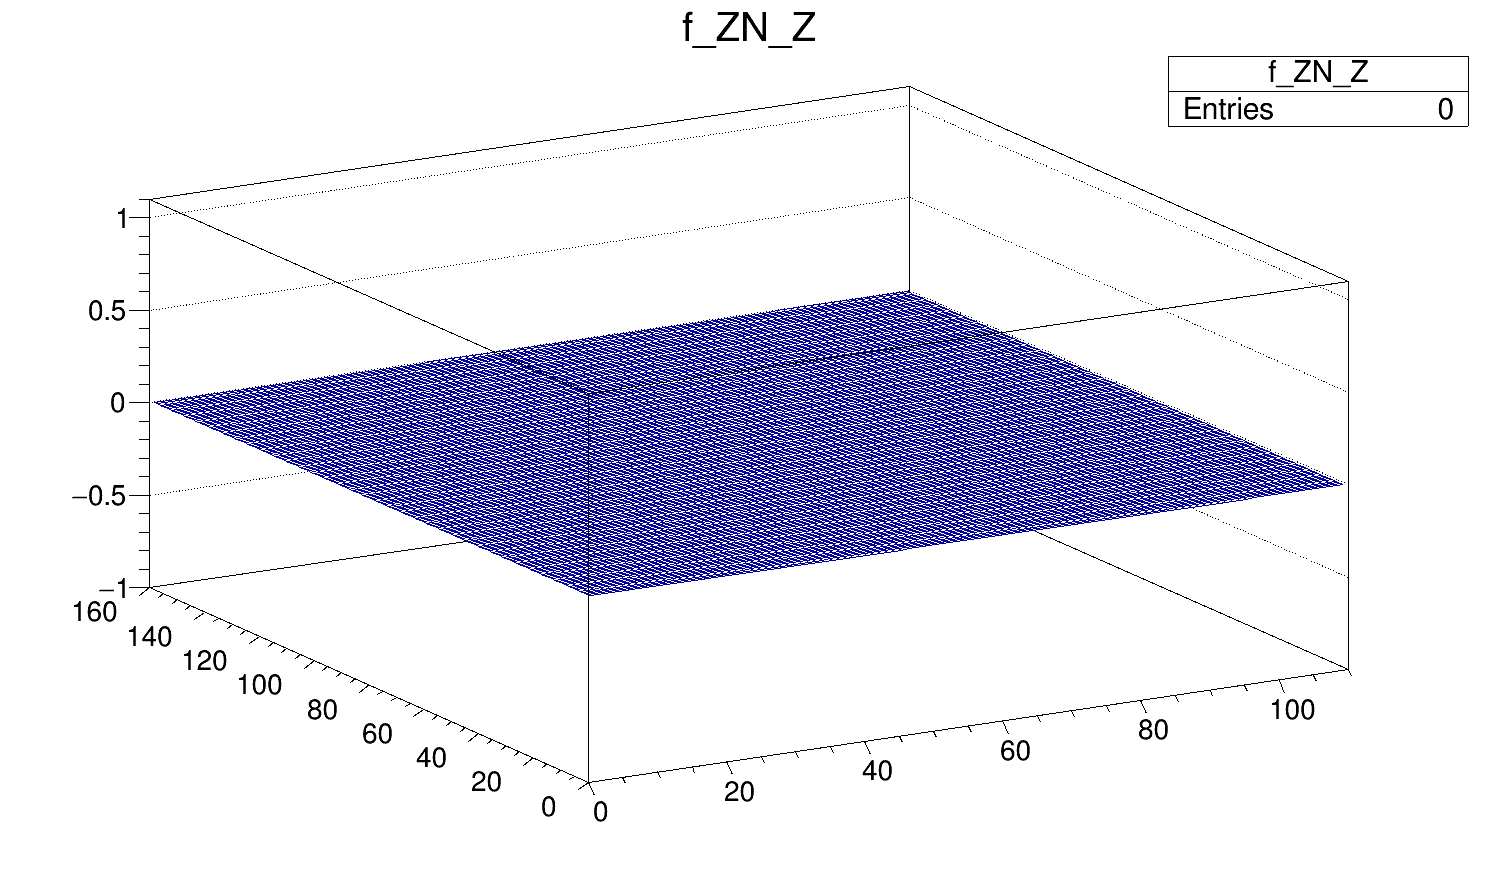
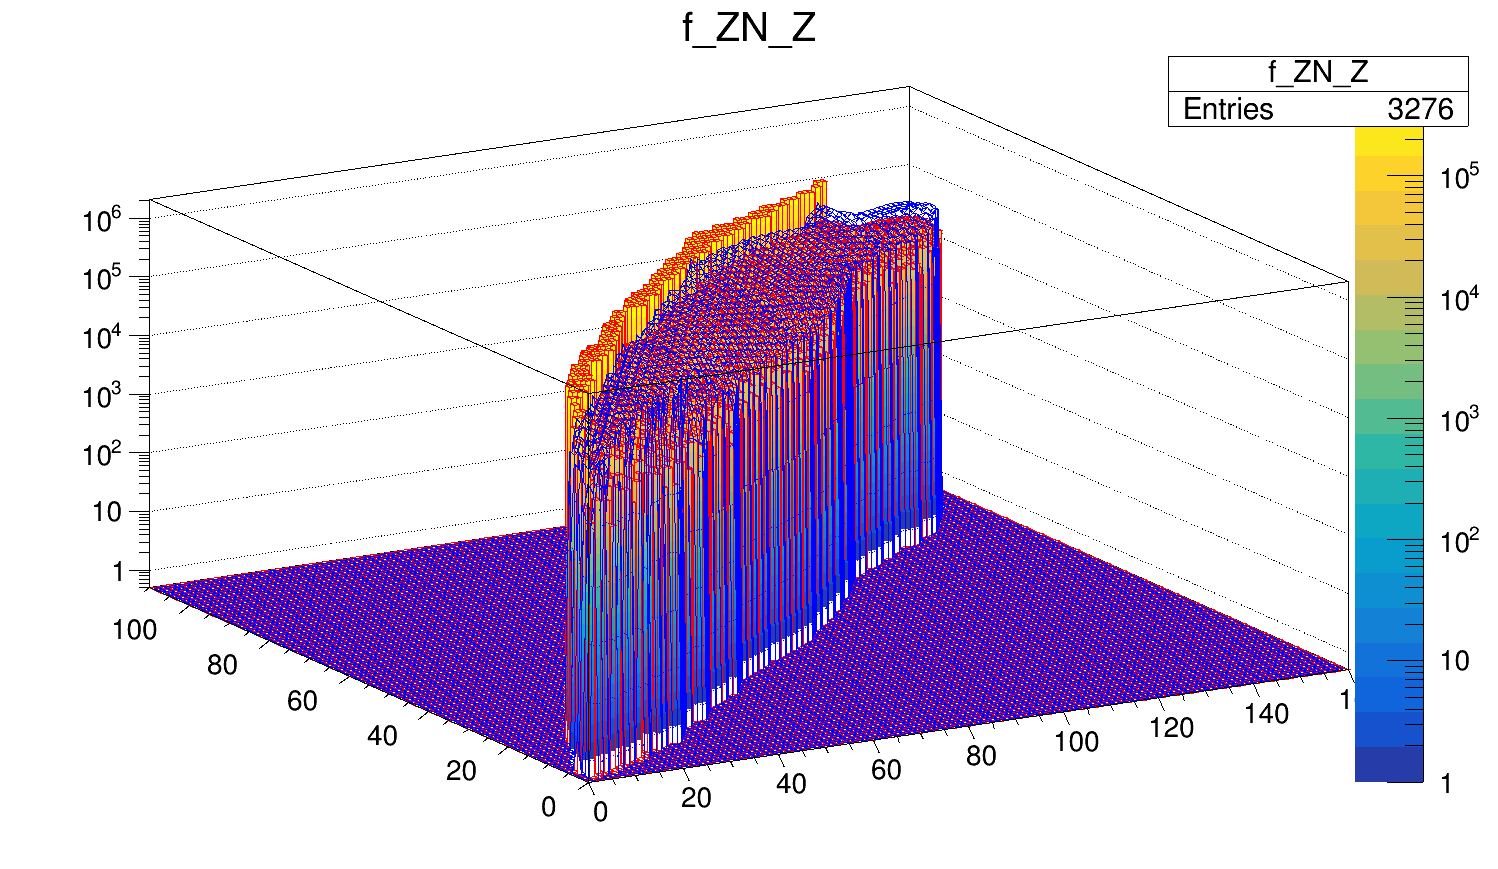
m

diff --git a/density/density.C b/density/density.C
@@ -20,28 +20,28 @@ Int_t heavyisotop[100] = {0, 7, 10, 13, 16, 21, 23, 25, 28, 31, 34, 39, 41, 43, 
 void density()
 {
 	//////////////////////////////////////////////////////////////////////////
-	TH1D *f_AZ=new TH1D("f_AZ", "f_AZ", 260, 0, 260);
-	TH1D *f_NZ=new TH1D("f_NZ", "f_NZ", 160, 0, 160);
-	TH1D *f_ZZ=new TH1D("f_ZZ", "f_ZZ", 110, 0, 110);
+	TH1D *f_AZ=new TH1D("f_AZ", "f_AZ", 256, 0, 256);
+	TH1D *f_NZ=new TH1D("f_NZ", "f_NZ", 155, 0, 155);
+	TH1D *f_ZZ=new TH1D("f_ZZ", "f_ZZ", 101, 0, 101);
 
-	TH1D *f_AA=new TH1D("f_AA", "f_AA", 260, 0, 260);
-	TH1D *f_NA=new TH1D("f_NA", "f_NA", 160, 0, 160);
-	TH1D *f_ZA=new TH1D("f_ZA", "f_ZA", 110, 0, 110);
+	TH1D *f_AA=new TH1D("f_AA", "f_AA", 256, 0, 256);
+	TH1D *f_NA=new TH1D("f_NA", "f_NA", 155, 0, 155);
+	TH1D *f_ZA=new TH1D("f_ZA", "f_ZA", 101, 0, 101);
 
-	TH1D *f_AN=new TH1D("f_AN", "f_AN", 260, 0, 260);
-	TH1D *f_NN=new TH1D("f_NN", "f_NN", 160, 0, 160);
-	TH1D *f_ZN=new TH1D("f_ZN", "f_ZN", 110, 0, 110);
+	TH1D *f_AN=new TH1D("f_AN", "f_AN", 256, 0, 256);
+	TH1D *f_NN=new TH1D("f_NN", "f_NN", 155, 0, 155);
+	TH1D *f_ZN=new TH1D("f_ZN", "f_ZN", 101, 0, 101);
 
-TH2D *f_ZN_N=new TH2D("f_ZN_N", "f_ZN_N", 110, 0, 110, 160, 0 , 160);
-  TH2D *f_ZN_Z=new TH2D("f_ZN_Z", "f_ZN_Z", 110, 0, 110, 160, 0 , 160);
-  TH2D *f_ZN_A=new TH2D("f_ZN_A", "f_ZN_A", 110, 0, 110, 160, 0 , 160);
+  TH2D *f_ZN_N=new TH2D("f_ZN_N", "f_ZN_N", 160, 0, 160, 110, 0 , 110);
+  TH2D *f_ZN_Z=new TH2D("f_ZN_Z", "f_ZN_Z", 160, 0, 160, 110, 0 , 110);
+  TH2D *f_ZN_A=new TH2D("f_ZN_A", "f_ZN_A", 160, 0, 160, 110, 0 , 110);
 
 	for(int ZZ=1; ZZ<100; ZZ++)
 	{
 		for(int AA=lightisotop[ZZ]; AA<=heavyisotop[ZZ]; AA++)
 		{
 			stringstream tmpname;
-			tmpname <<"../from_the_source/target"<<names[ZZ]<<AA<<".root";
+			tmpname <<"../from_the_source/2Dfragments"<<names[ZZ]<<AA<<".root";
 			string tmp_name = tmpname.str();
 			const char *name =(char*) tmp_name.c_str();	
 			TFile *file;
@@ -51,14 +51,14 @@ TH2D *f_ZN_N=new TH2D("f_ZN_N", "f_ZN_N", 110, 0, 110, 160, 0 , 160);
 			if (!file || file->IsZombie()) { delete file; cout <<"There is no such isotop"<<endl;} //precaution
 			else {
 				cout <<"OK"<<endl;
-				TH3D *hist3D;
-				hist3D = (TH3D*)file->Get("Z:N")->Clone();
-				TH2D *hist = new TH2D("hist2D", "hist", hist3D->GetNbinsX(), hist3D->GetXaxis()->GetXmin(), hist3D->GetXaxis()->GetXmax(), hist3D->GetNbinsY(), hist3D->GetYaxis()->GetXmin(), hist3D->GetYaxis()->GetXmax());
+				TH2D *hist;
+				hist = (TH2D*)file->Get("hist2D")->Clone();
+				//TH2D *hist = new TH2D("hist2D", "hist", hist3D->GetNbinsX(), hist3D->GetXaxis()->GetXmin(), hist3D->GetXaxis()->GetXmax(), hist3D->GetNbinsY(), hist3D->GetYaxis()->GetXmin(), hist3D->GetYaxis()->GetXmax());
 
 
 				//hist = ZNE->Project3DProfile("xy");
 				int NN = AA-ZZ;
-
+/*
 				for (int zbin = 0; zbin < 150; zbin++) {
 				    for (int nbin = 0; nbin < 150; nbin++) {
 				        for (int ebin = 0; ebin < 800; ebin++) {
@@ -70,14 +70,16 @@ TH2D *f_ZN_N=new TH2D("f_ZN_N", "f_ZN_N", 110, 0, 110, 160, 0 , 160);
 				        }
 				    }
 				}
+*/
 
-
-				int f1 = hist->GetBinContent(NN, ZZ-1);
+				Double_t f1 = hist->GetBinContent(NN, ZZ-1);
+				f1=f1/1000000.0;
 				f_ZZ->Fill(ZZ, f1);
 				f_AZ->Fill(AA, f1);
 				f_NZ->Fill(NN, f1);
 
-				int f2 = hist->GetBinContent(NN-1, ZZ);
+				Double_t f2 = hist->GetBinContent(NN-1, ZZ);
+				f2=f2/1000000.0;
 				f_NN->Fill(NN, f2);
 				f_AN->Fill(AA, f2);
 				f_ZN->Fill(ZZ, f2);
@@ -86,11 +88,14 @@ TH2D *f_ZN_N=new TH2D("f_ZN_N", "f_ZN_N", 110, 0, 110, 160, 0 , 160);
 				f_ZA->Fill(ZZ, f1+f2);
 				f_NA->Fill(NN, f1+f2);
 
+				f_ZN_A->Fill(NN, ZZ, f1+f2);
+				f_ZN_N->Fill(NN, ZZ, f2);
+				f_ZN_Z->Fill(NN, ZZ, f1);
 				//if(f!=0)
 				//	cout<<N <<" : "<< f<<endl;
 
 
-				delete hist3D;
+				//delete hist3D;
 				delete hist;
 				delete file;
 			}
@@ -104,7 +109,7 @@ TH2D *f_ZN_N=new TH2D("f_ZN_N", "f_ZN_N", 110, 0, 110, 160, 0 , 160);
 	const char *name1 =(char*) tmp_name1.c_str();	
 
 	TCanvas *c = new TCanvas(name1,name1,1500,1100);
-	gStyle->SetOptStat(11);
+	gStyle->SetOptStat(0);
 	c->SetLogz();
 	c->SetGrid();
 	f_ZZ->GetXaxis()->SetTitle("Z");
@@ -116,17 +121,17 @@ TH2D *f_ZN_N=new TH2D("f_ZN_N", "f_ZN_N", 110, 0, 110, 160, 0 , 160);
 	f_ZZ->SetMarkerSize(1.5);
 	f_ZZ->SetMarkerStyle(20);
 	f_ZA->SetMarkerColor(6);
-  f_ZA->SetMarkerSize(1.5);
-  f_ZA->SetMarkerStyle(20);
+  	f_ZA->SetMarkerSize(1.5);
+  	f_ZA->SetMarkerStyle(20);
 	f_ZN->SetMarkerColor(4);
-  f_ZN->SetMarkerSize(1.5);
-  f_ZN->SetMarkerStyle(20);
+  	f_ZN->SetMarkerSize(1.5);
+  	f_ZN->SetMarkerStyle(20);
 
 	f_ZZ->SetTitle(name1);
 	f_ZZ->Draw("HIST P");
-	f_ZA ->Draw("SAME");
-	f_ZN ->Draw("SAME");
-	auto legend = new TLegend(0.1,0.1,0.2,0.9);
+	f_ZA ->Draw("HIST SAME P");
+	f_ZN ->Draw("HIST SAME P");
+	auto legend = new TLegend(0.1,0.9,0.2,1);
   legend->SetHeader("Frequencies:","C"); // option "C" allows to center the header
   legend->AddEntry(f_ZZ, "f(Z->Z-1)","p");
   legend->AddEntry(f_ZA,"f(A->A-1)","p");
@@ -148,16 +153,14 @@ TH2D *f_ZN_N=new TH2D("f_ZN_N", "f_ZN_N", 110, 0, 110, 160, 0 , 160);
 	string tmp_name2 = tmpname2.str();
 	const char *name2 =(char*) tmp_name2.c_str();		
 
-	TCanvas *c2 = new TCanvas(name2,name2,1500,1100);
-	gStyle->SetOptStat(11);
+	TCanvas *c2 = new TCanvas(name2,name2,3000,1100);
+	gStyle->SetOptStat(0);
 	c2->SetLogz();
 	c2->SetGrid();
 	f_AA->GetXaxis()->SetTitle("A");
 	f_AA->GetYaxis()->SetTitle("f (A-1)");
 	c2->SetLogy();
-	f_AA->GetXaxis()->SetNdivisions(260); 
-
-
+	f_AA->GetXaxis()->SetNdivisions(128); 
 	f_AZ->SetMarkerColor(2);
 	f_AZ->SetMarkerSize(1.5);
 	f_AZ->SetMarkerStyle(20);
@@ -170,9 +173,9 @@ TH2D *f_ZN_N=new TH2D("f_ZN_N", "f_ZN_N", 110, 0, 110, 160, 0 , 160);
 
 	f_AA->SetTitle(name2);
 	f_AA->Draw("HIST P");
-	f_AZ ->Draw("SAME");
-	f_AN ->Draw("SAME");
-	auto legend1 = new TLegend(0.1,0.1,0.2,0.9);
+	f_AZ ->Draw("HIST SAME P");
+	f_AN ->Draw("HIST SAME P");
+	auto legend1 = new TLegend(0.1,0.9,0.2,1);
   legend1->SetHeader("Frequencies:","C"); // option "C" allows to center the header
   legend1->AddEntry(f_AZ, "f(Z->Z-1)","p");
   legend1->AddEntry(f_AA,"f(A->A-1)","p");
@@ -195,7 +198,7 @@ TH2D *f_ZN_N=new TH2D("f_ZN_N", "f_ZN_N", 110, 0, 110, 160, 0 , 160);
 	const char *name3 =(char*) tmp_name3.c_str();		
 
 	TCanvas *c3 = new TCanvas(name3,name3,1500,1100);
-	gStyle->SetOptStat(11);
+	gStyle->SetOptStat(0);
 	c3->SetLogz();
 	c3->SetGrid();
 	f_NN->GetXaxis()->SetTitle("N");
@@ -215,9 +218,9 @@ TH2D *f_ZN_N=new TH2D("f_ZN_N", "f_ZN_N", 110, 0, 110, 160, 0 , 160);
 
 	f_NN->SetTitle(name3);
 	f_NN->Draw("HIST P");
-	f_NA ->Draw("SAME");
-	f_NZ ->Draw("SAME");
-	auto legend2 = new TLegend(0.1,0.1,0.2,0.9);
+	f_NA ->Draw("HIST SAME P");
+	f_NZ ->Draw("HIST SAME P");
+	auto legend2 = new TLegend(0.1,0.9,0.2,1);
   legend2->SetHeader("Frequencies:","C"); // option "C" allows to center the header
   legend2->AddEntry(f_NZ, "f(Z->Z-1)","p");
   legend2->AddEntry(f_NA,"f(A->A-1)","p");
@@ -231,11 +234,11 @@ TH2D *f_ZN_N=new TH2D("f_ZN_N", "f_ZN_N", 110, 0, 110, 160, 0 , 160);
 	f_NA->Write();
 	file3->Write();
 
-
+/*
 	TCanvas *c4 = new TCanvas("density2D","density2D",1500,1100);
 	gStyle->SetOptStat(11);
-	c3->SetLogz();
-	c3->SetGrid();
+	c4->SetLogz();
+	//c4->SetGrid();
 	f_ZN_N->GetXaxis()->SetTitle("Z");
 	f_ZN_N->GetYaxis()->SetTitle("N");
 	//c3->SetLogy();
@@ -243,24 +246,27 @@ TH2D *f_ZN_N=new TH2D("f_ZN_N", "f_ZN_N", 110, 0, 110, 160, 0 , 160);
 	f_ZN_N->GetYaxis()->SetNdivisions(160);
 
 	f_ZN_Z->SetMarkerColor(2);
+	f_ZN_Z->SetLineColor(2);
 	f_ZN_Z->SetMarkerSize(1.5);
 	f_ZN_Z->SetMarkerStyle(20);
 	f_ZN_A->SetMarkerColor(6);
+	f_ZN_A->SetLineColor(6);
   f_ZN_A->SetMarkerSize(1.5);
   f_ZN_A->SetMarkerStyle(20);
 	f_ZN_N->SetMarkerColor(4);
+	f_ZN_N->SetLineColor(4);
   f_ZN_N->SetMarkerSize(1.5);
   f_ZN_N->SetMarkerStyle(20);
 
-  f_ZN_Z->Draw("SURF");
-  f_ZN_Z->Draw("SURF SAME");
-  f_ZN_Z->Draw("SURF SAME");
-
+  f_ZN_Z->Draw("LEGO2Z ");
+  //f_ZN_A->Draw("same surf");
+  f_ZN_N->Draw("same surf");
+*/
    
 
    c->SaveAs("densityZ.png");
    c2->SaveAs("densityA.png");
    c3->SaveAs("densityN.png");
-   c4->SaveAs("3Ddensity.png");
+   //c4->SaveAs("3Ddensity.png");
 
 }
